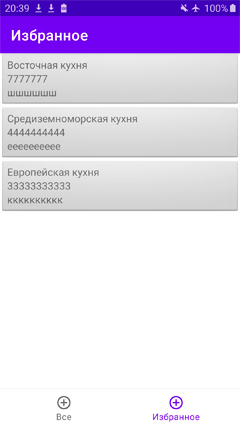
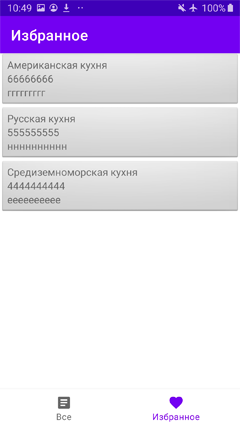
Third diploma version

diff --git a/README.md b/README.md
@@ -1,36 +1,48 @@
-
+Я учёл все замечания к предыдущей версии и теперь задание приняло такой вид
 ### Фрагмент со списком рецептов:
-Добавил возможность выбора по названию кухни
+Фрагмент со всеми рецептами появляется сразу при запуске приложения
+
 RecipeListFragment
 
-![](select.png)
+![](allRecept.png)
 
+с помощью плавающей кнопки добавляется новый рецепт
 
+### Фрагмент с избранным
+Для перехода используется кнопка навигации 
 
-при нажатии на элементе списка, переходим на другой фрагмент
+FavoriteFragment
 
-### Фрагмент с одним рецептом и возможностью выбора из меню трёх опций
-Popup меню я починил, добавил сердечко, которое добавляет в "Избранное" 
+![](favorite.png)
+
+На первом экране можно сделать выборку по типу кухни
+
+![](search.png)
+
+Тап на элементе списка переводит на экран, где можно рецепт редактировать и добавлять(удалять) в избранное
+
+![](touched.png)
+
 
 SingleRecipeFragment
 
-![](single.png)
+![](singleRecept.png)
 
-при выборе опции "Изменить", переходим на третий фрагмент, где можно редактировать
+
+
+при выборе опции "Изменить", переходим на фрагмент, где можно редактировать
 существующий рецепт - изменить значения текстовых полей для названия и содержания рецепта
 и выбрать кухню
 
 NewRecipeFragment
 
-![](NewRecipeFragment.png)
+![](editRecept.png)
 
 при нажатии плавающей кнопки, изменения сохраняются и возвращаемся на предыдущий
-фрагмент с выпадающим меню 
+экран. 
 
-### Фрагмент с навигацией
-![](favorite.png)
+Весь лишний код вроде-бы удалил -)
+ 
 
 
-## <span style="color : red"> К сожалению при запуске приложения и при выборе кухни,
-## <span style="color : red">на экране ничего не появляется пока не поменяется ориентация устройства -   с этой проблемой я так и не успел справиться 
 
